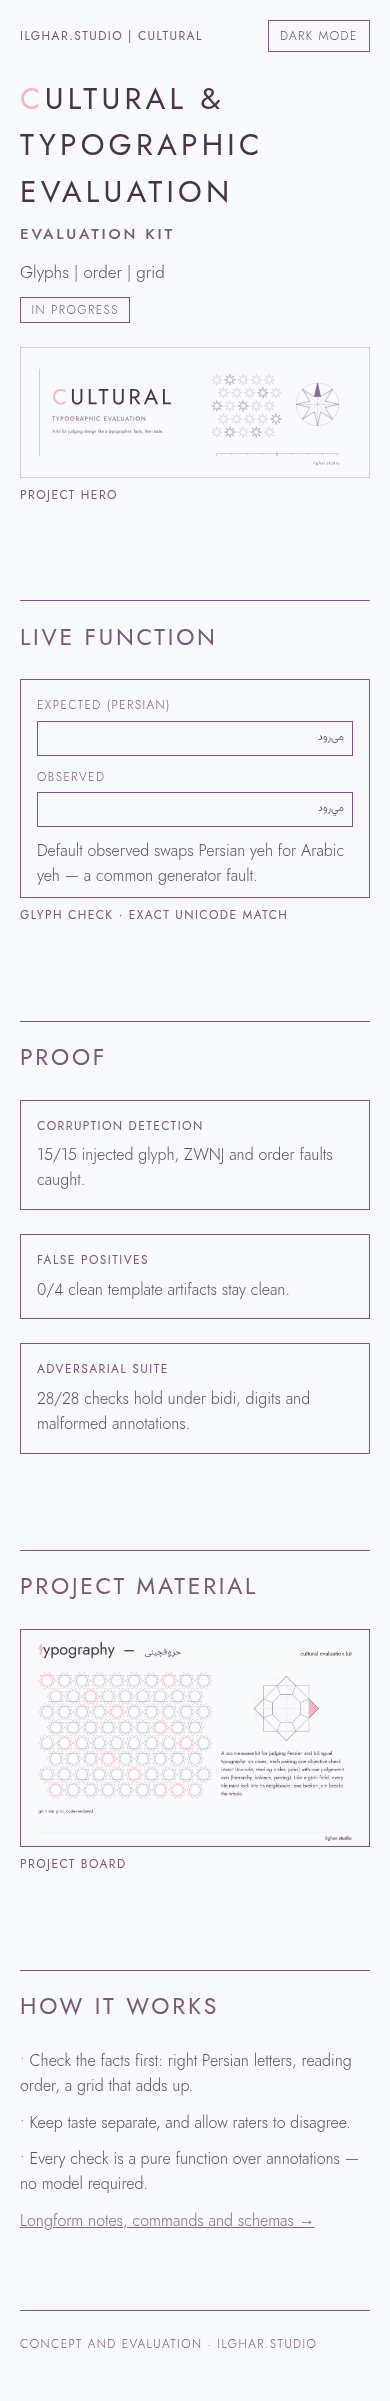
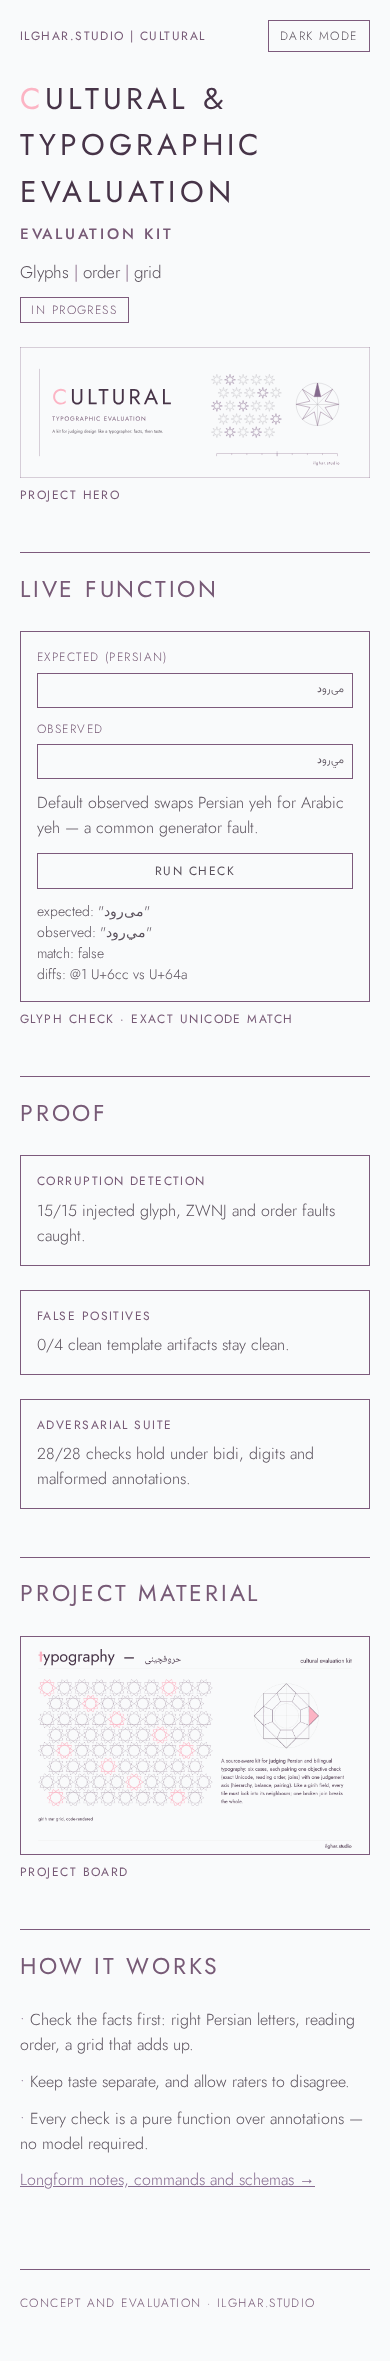
website-ops: 64px section rhythm, live frames content-height, Critiquito blockers
- Drop h2 top margin that doubled the section gap after hero
- Live demos: .frame.live content-height (keep r1610 boards / r83 hero)
- signature-typography: one 12-span live frame, soft neumorphic with palette
  shadows only, measured text ≥4.5:1, interactive 1px #7d5a7c hairline,
  Project material from f1/f2
- Signature-animation: Proof + Project material + How it works; tighter live
- Reshoot pages-1280/390 light+dark

diff --git a/site/pages-shell.css b/site/pages-shell.css
@@ -63,8 +63,7 @@ figcaption,.cap{
   margin-top:8px;font-size:12px;font-weight:400;letter-spacing:.12em;text-transform:uppercase;color:var(--label);
 }
 h2{font-weight:400;font-size:23px;letter-spacing:.12em;text-transform:uppercase;color:var(--label);
-  border-top:1px solid var(--line);padding-top:.8em;margin:64px 0 24px}
-@media (max-width:600px){h2{margin-top:48px}}
+  border-top:1px solid var(--line);padding-top:.8em;margin:0 0 24px}
 .card{border:1px solid var(--line);border-radius:0;box-shadow:none;background:var(--bg);padding:16px;margin:0}
 .card h3{font-size:12px;font-weight:400;letter-spacing:.12em;text-transform:uppercase;color:var(--label);margin:0 0 8px}
 .card p{margin:0;font-size:16px;font-weight:300;max-width:64ch}
@@ -83,3 +82,40 @@ footer{margin-top:64px;padding-top:24px;border-top:1px solid var(--line);font-si
 .hero-art img{position:absolute;inset:0;display:block;width:100%!important;height:100%!important;max-height:none;object-fit:fill;border:0;border-radius:0}
 figure.span12 > .hero-art, figure.hero > .hero-art{width:100%}
 
+
+/* section rhythm — exactly 64px (48px ≤600); no extra h2 top margin */
+section{margin-top:64px;margin-bottom:0}
+@media (max-width:600px){section{margin-top:48px}}
+figure.span12{margin:0}
+
+/* Live demo frames: full width, height follows content — no forced 16:10.
+   Hero .hero-art stays 8:3; boards/cards keep .r1610 / .r43. */
+section[aria-label="Live function"] .frame,
+.frame.live,
+#app-frame{
+  aspect-ratio:auto;
+  height:auto;
+  min-height:0;
+}
+section[aria-label="Live function"] .frame > *,
+.frame.live > *,
+#app-frame > *{
+  width:100%;
+  height:auto;
+  max-height:none;
+  object-fit:unset;
+  position:static;
+}
+section[aria-label="Live function"] .frame iframe,
+.frame.live iframe{
+  display:block;
+  width:100%;
+  height:auto;
+  min-height:480px;
+  border:0;
+  position:static;
+}
+@media (max-width:600px){
+  section[aria-label="Live function"] .frame iframe,
+  .frame.live iframe{min-height:520px}
+}

diff --git a/site/index.html b/site/index.html
@@ -51,7 +51,7 @@ pre.out{margin:0;font:300 14px/1.5 Jost;white-space:pre-wrap;color:var(--fg)}
   <section class="span12" aria-label="Live function">
     <h2>Live function</h2>
     <figure>
-      <div class="frame r1610">
+      <div class="frame live">
         <form id="glyph-demo" class="live-pad" onsubmit="return false">
           <label>Expected (Persian)<input id="g-exp" type="text" dir="rtl" lang="fa" value="میرود"></label>
           <label>Observed<input id="g-obs" type="text" dir="rtl" lang="fa" value="ميرود"></label>
